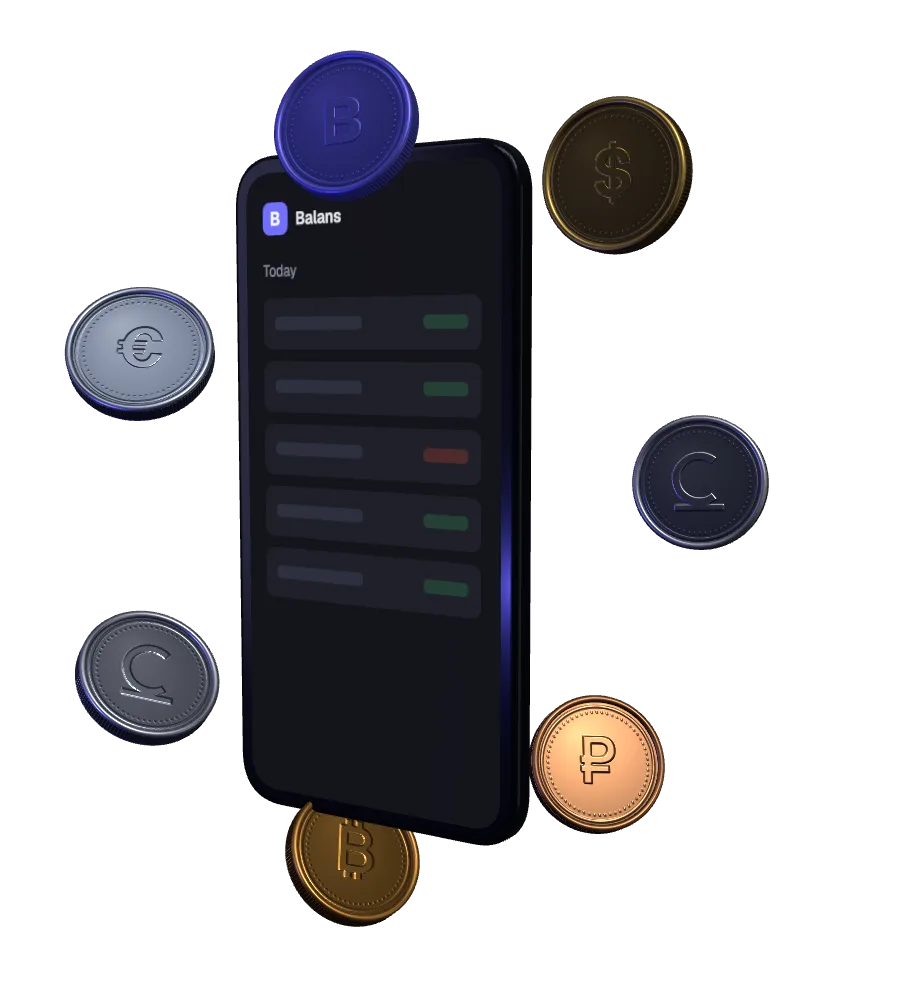
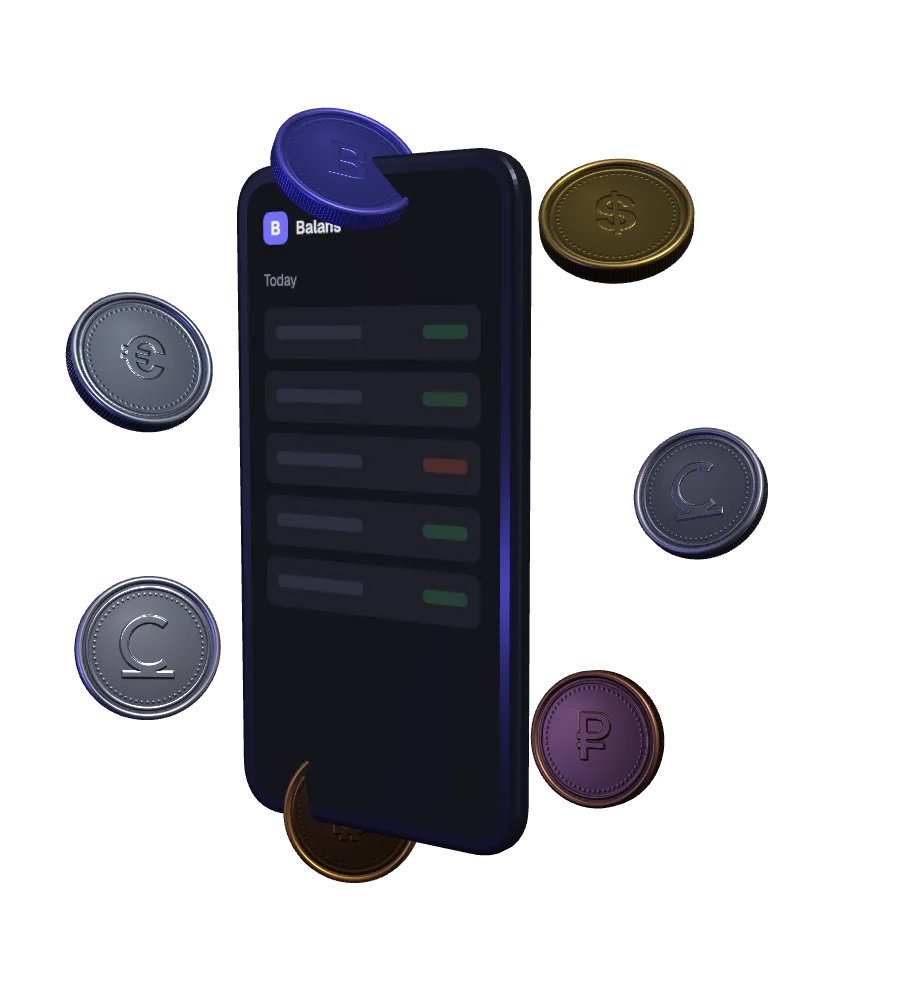
RUN 2B этапы 3–4: скорость и фон гостевых

diff --git a/src/app/_landing/hero.tsx b/src/app/_landing/hero.tsx
@@ -9,7 +9,7 @@ import type { Locale } from "@/i18n/config"
 import { formatSom } from "@/lib/format"
 import { cn } from "@/lib/utils"
 import { DemoButton } from "../demo/demo-button"
-import { stepOf, type ScreenLabels } from "./hero-scene"
+import { stepOf, type ScreenLabels } from "./hero-shared"
 import { PRIMARY_PILL } from "./styles"
 
 const HeroScene = dynamic(() => import("./hero-scene"), { ssr: false })
@@ -80,19 +80,21 @@ export function Hero({ screen, children }: { screen: Omit<ScreenLabels, "amount"
     const onVisibility = () => setActive(!document.hidden && element.getBoundingClientRect().bottom > 0)
     document.addEventListener("visibilitychange", onVisibility)
 
-    let idle = 0
+    // The scene (three.js, ~240 KB) loads on the visitor's first scroll, touch, key or mouse move after `load`:
+    // the hero is a scroll story, so it is ready by the time step 1 comes, and the first screen pays nothing for it.
+    const WAKE = ["scroll", "pointermove", "pointerdown", "keydown", "wheel", "touchstart"] as const
+    const wake = () => {
+      WAKE.forEach((type) => removeEventListener(type, wake))
+      setMode("3d")
+    }
+    const listen = () => WAKE.forEach((type) => addEventListener(type, wake, { passive: true, once: true }))
     const choose = requestAnimationFrame(() => {
       if (fixed !== null) {
         setFrozen(Number(fixed))
         setMode("3d")
       } else if (shouldSkip3D()) setMode("pictures")
-      else {
-      const start = () => {
-        idle = "requestIdleCallback" in window ? requestIdleCallback(() => setMode("3d"), { timeout: 2500 }) : Number(globalThis.setTimeout(() => setMode("3d"), 1200))
-      }
-      if (document.readyState === "complete") start()
-      else addEventListener("load", start, { once: true })
-      }
+      else if (document.readyState === "complete") listen()
+      else addEventListener("load", listen, { once: true })
     })
 
     return () => {
@@ -101,10 +103,10 @@ export function Hero({ screen, children }: { screen: Omit<ScreenLabels, "amount"
       cancelAnimationFrame(choose)
       removeEventListener("scroll", onScroll)
       removeEventListener("resize", onResize)
+      removeEventListener("load", listen)
+      WAKE.forEach((type) => removeEventListener(type, wake))
       seen.disconnect()
       document.removeEventListener("visibilitychange", onVisibility)
-      if ("cancelIdleCallback" in window) cancelIdleCallback(idle)
-      clearTimeout(idle)
     }
   }, [])
 
@@ -121,14 +123,17 @@ export function Hero({ screen, children }: { screen: Omit<ScreenLabels, "amount"
         {/* Scene: right half on a computer, top 52% on a phone. Hidden from screen readers. */}
         <div aria-hidden data-hero-scene className="relative row-start-1 overflow-hidden lg:col-start-2">
           <div aria-hidden className="absolute top-1/2 left-1/2 size-[min(36rem,90%)] -translate-1/2 bg-glow" />
-          {[0, 1, 2].map((i) => (
+          {/* Steps 1 and 2 only in the picture mode: otherwise they would share the network with the LCP picture. */}
+          {(mode === "pictures" ? [0, 1, 2] : [0]).map((i) => (
             <Image
               key={i}
               src={`/images/hero/${locale}-step-${i}.webp`}
               alt=""
               width={900}
               height={1000}
-              priority={i === 0}
+              // The LCP picture: high priority from the HTML itself (Next 16 deprecated `priority`).
+              loading={i === 0 ? "eager" : "lazy"}
+              fetchPriority={i === 0 ? "high" : "auto"}
               sizes="(min-width: 1024px) 50vw, 100vw"
               className={cn(
                 "absolute inset-0 size-full object-contain transition-opacity duration-500",

diff --git a/src/app/_landing/hero-scene.tsx b/src/app/_landing/hero-scene.tsx
@@ -4,19 +4,7 @@ import { useEffect, useMemo, useRef, type RefObject } from "react"
 import { Canvas, useFrame, useThree } from "@react-three/fiber"
 import * as THREE from "three"
 
-/** Texts and numbers painted on the screen card; prepared on the server in the visitor's language. */
-export type ScreenLabels = {
-  brand: string
-  today: string
-  newEntry: string
-  income: string
-  expense: string
-  chips: [string, string, string]
-  save: string
-  profitTitle: string
-  profitChange: string
-  amount: (value: number) => string
-}
+import { stepOf, type ScreenLabels } from "./hero-shared"
 
 const AMOUNT = 5_400
 const PROFIT = 142_800
@@ -33,7 +21,6 @@ const HERO_COINS: CoinKind[] = ["som", "usd", "b", "eur", "som", "btc", "rub"]
 
 const clamp = (v: number, a: number, b: number) => Math.max(a, Math.min(b, v))
 const lerp = (a: number, b: number, t: number) => a + (b - a) * t
-export const stepOf = (p: number) => (p < 0.3 ? 0 : p < 0.66 ? 1 : 2)
 
 /* ---------- shapes ---------- */
 
@@ -341,6 +328,7 @@ function Rig({
   font,
   active,
   capture,
+  minFps,
   onReady,
   onSlow,
 }: {
@@ -350,6 +338,8 @@ function Rig({
   active: boolean
   /** Capture mode: no quality steps, the slow software renderer must not swap the scene for pictures. */
   capture: boolean
+  /** Below this, after DPR 1, the scene gives way to the pictures. */
+  minFps: number
   onReady: () => void
   onSlow: () => void
 }) {
@@ -369,7 +359,7 @@ function Rig({
       bevelEnabled: true,
       bevelThickness: 0.06,
       bevelSize: 0.06,
-      bevelSegments: 8,
+      bevelSegments: 3,
       curveSegments: 16,
     })
     g.translate(0, 0, -0.05)
@@ -463,7 +453,7 @@ function Rig({
       const fps = f.count / f.time
       f.count = 0
       f.time = 0
-      if (fps < 24 && f.degraded) onSlow()
+      if (fps < minFps && f.degraded) onSlow()
       else if (fps < 40 && !f.degraded) {
         f.degraded = true
         setDpr(1)
@@ -478,13 +468,14 @@ function Rig({
       <pointLight position={[-6, -2, 4]} color={0x6e6cff} intensity={40} distance={30} />
       <group ref={card}>
         <mesh geometry={body}>
-          <meshPhysicalMaterial color={0x1c1e28} metalness={0.85} roughness={0.22} clearcoat={1} clearcoatRoughness={0.08} envMapIntensity={2.2} />
+          {/* Standard, not physical with clearcoat: its shader compile was the longest task on a phone (perf-auditor). */}
+          <meshStandardMaterial color={0x343848} metalness={0.6} roughness={0.28} envMapIntensity={2.6} />
         </mesh>
         <mesh geometry={face} position-z={0.112}>
           <meshBasicMaterial map={screen.texture} toneMapped={false} />
         </mesh>
         <mesh geometry={face} position-z={0.116}>
-          <meshPhysicalMaterial color={0xffffff} metalness={0} roughness={0.05} transparent opacity={0.06} envMapIntensity={2} />
+          <meshStandardMaterial color={0xffffff} metalness={0} roughness={0.05} transparent opacity={0.06} envMapIntensity={2} />
         </mesh>
       </group>
       <group ref={coinGroup}>
@@ -546,7 +537,7 @@ export default function HeroScene({
         gl.domElement.addEventListener("webglcontextlost", onFail, { once: true })
       }}
     >
-      <Rig progress={progress} labels={labels} font={font} active={active} capture={capture} onReady={onReady} onSlow={onFail} />
+      <Rig progress={progress} labels={labels} font={font} active={active} capture={capture} minFps={compact ? 30 : 24} onReady={onReady} onSlow={onFail} />
     </Canvas>
   )
 }

diff --git a/src/components/guest-backdrop.tsx b/src/components/guest-backdrop.tsx
@@ -1,0 +1,61 @@
+import { cn } from "@/lib/utils"
+
+type Item = { kind: "som" | "b" | "income" | "expense"; size: number; left: string; top: string; time: number; delay: number; phone?: boolean }
+
+/**
+ * Slow floating coins with the som sign, a «B» tile and two bars behind the card of the guest pages
+ * (sign-in, new password, invite, onboarding, 404, errors): motifs of the landing hero, drawn in SVG + CSS.
+ * Pure server markup, no JS. Hidden from screen readers, never takes clicks, still with reduced motion.
+ * Items marked `phone` stay at the edges on narrow screens; the rest show from 768px.
+ */
+const ITEMS: Item[] = [
+  { kind: "som", size: 88, left: "7%", top: "16%", time: 26, delay: 0, phone: true },
+  { kind: "b", size: 60, left: "86%", top: "12%", time: 30, delay: -8, phone: true },
+  { kind: "som", size: 56, left: "88%", top: "62%", time: 24, delay: -4 },
+  { kind: "income", size: 92, left: "13%", top: "66%", time: 32, delay: -12 },
+  { kind: "expense", size: 64, left: "76%", top: "82%", time: 28, delay: -16, phone: true },
+  { kind: "som", size: 44, left: "4%", top: "88%", time: 34, delay: -20, phone: true },
+]
+
+function Shape({ kind }: { kind: Item["kind"] }) {
+  if (kind === "som")
+    return (
+      <svg viewBox="0 0 100 100" className="size-full">
+        <circle cx="50" cy="50" r="47" className="fill-card stroke-border" strokeWidth="2" />
+        <circle cx="50" cy="50" r="39" fill="none" className="stroke-border" strokeWidth="1.5" strokeDasharray="2 4" />
+        {/* The som sign: «С» with a bar under it. */}
+        <path d="M61 34A17 17 0 1 0 61 60" fill="none" className="stroke-subtle-foreground" strokeWidth="5" />
+        <rect x="32" y="66" width="36" height="5" className="fill-subtle-foreground" />
+      </svg>
+    )
+  if (kind === "b")
+    return (
+      <span className="grid size-full place-items-center rounded-[22%] border border-primary/30 bg-primary-subtle text-heading font-semibold text-primary-text">
+        B
+      </span>
+    )
+  return <span className={cn("block h-full w-[34%] rounded-md opacity-40", kind === "income" ? "bg-income" : "bg-expense")} />
+}
+
+export function GuestBackdrop() {
+  return (
+    <div aria-hidden className="pointer-events-none fixed inset-0 -z-10 overflow-hidden">
+      {ITEMS.map((item, i) => (
+        <div
+          key={i}
+          className={cn("guest-float absolute opacity-60", !item.phone && "max-md:hidden")}
+          style={{
+            left: item.left,
+            top: item.top,
+            width: item.size,
+            height: item.size,
+            animationDuration: `${item.time}s`,
+            animationDelay: `${item.delay}s`,
+          }}
+        >
+          <Shape kind={item.kind} />
+        </div>
+      ))}
+    </div>
+  )
+}

diff --git a/src/app/login/auth-shell.tsx b/src/app/login/auth-shell.tsx
@@ -5,6 +5,7 @@ import { connection } from "next/server"
 import { LocaleToggle } from "@/components/locale-toggle"
 import { Logo } from "@/components/logo"
 import { SignOutIconButton } from "@/components/sign-out-button"
+import { GuestBackdrop } from "@/components/guest-backdrop"
 import { Card } from "@/components/ui/card"
 import { createClient } from "@/lib/supabase/server"
 
@@ -12,6 +13,7 @@ import { createClient } from "@/lib/supabase/server"
 export function AuthShell({ children }: { children: ReactNode }) {
   return (
     <>
+      <GuestBackdrop />
       <header className="border-b">
         <div className="page-container flex h-header items-center justify-between gap-4">
           {/* A signed-in person goes from «/» to the cabinet (proxy). */}

diff --git a/src/app/_landing/hero-shared.ts b/src/app/_landing/hero-shared.ts
@@ -1,0 +1,19 @@
+// Shared by the hero and its 3D scene. Kept free of three.js: hero.tsx imports it statically,
+// and anything it pulls in lands in the first screen's JS (perf-auditor, RUN 2B stage 3).
+
+/** Texts and numbers painted on the screen card; prepared on the server in the visitor's language. */
+export type ScreenLabels = {
+  brand: string
+  today: string
+  newEntry: string
+  income: string
+  expense: string
+  chips: [string, string, string]
+  save: string
+  profitTitle: string
+  profitChange: string
+  amount: (value: number) => string
+}
+
+/** Scroll progress 0..1 → step of the hero story. */
+export const stepOf = (p: number) => (p < 0.3 ? 0 : p < 0.66 ? 1 : 2)

diff --git a/src/app/globals.css b/src/app/globals.css
@@ -649,6 +649,19 @@
   }
 }
 
+/* Guest pages background (<GuestBackdrop>): a slow drift, one cycle ≥ 20s (DESIGN.md §13). Phones get smaller items. */
+.guest-float {
+  translate: -50% -50%;
+  animation: guest-float 26s ease-in-out infinite alternate;
+}
+@media (width < 48rem) {
+  .guest-float { scale: 0.6; }
+}
+@keyframes guest-float {
+  from { transform: translate3d(0, -14px, 0) rotate(-8deg); }
+  to { transform: translate3d(0, 14px, 0) rotate(8deg); }
+}
+
 /* Reduced motion: landing bento shows its final state instead of the starting one. */
 @media (prefers-reduced-motion: reduce) {
   .lp-share { transform: scaleX(var(--w)); }

diff --git a/src/app/error.tsx b/src/app/error.tsx
@@ -2,6 +2,7 @@
 
 import { useTranslations } from "next-intl"
 
+import { GuestBackdrop } from "@/components/guest-backdrop"
 import { Button } from "@/components/ui/button"
 import { StateMessage } from "@/components/state-message"
 
@@ -11,6 +12,7 @@ export default function Error({ retry }: { retry: () => void }) {
   const t = useTranslations()
   return (
     <main id="main" className="page-container flex flex-1 items-center justify-center">
+      <GuestBackdrop />
       <StateMessage
         variant="error"
         title={t("errors.pageTitle")}

diff --git a/src/app/layout.tsx b/src/app/layout.tsx
@@ -16,6 +16,8 @@ const geistSans = Geist({
 const geistMono = Geist_Mono({
   variable: "--font-geist-mono",
   subsets: ["latin"],
+  // Only /design uses it: no preload, so it does not compete with the first screen of every page.
+  preload: false,
 });
 
 export async function generateMetadata(): Promise<Metadata> {

diff --git a/docs/launch/PROGRESS.md b/docs/launch/PROGRESS.md
@@ -15,6 +15,8 @@
 | RUN 2 | 2. Лендинг | собран, не закоммичено. Скорость 77/75 принята как точка отсчёта (решение Даниэла 2026-11-16). **RUN 2 на паузе** по решению Даниэла; дальше Фаза 3 (фон гостевых), Фаза 4 (проверка ссылок), СТОП B | | `tsc`, `lint`, `build` чистые; `check-screens` `/` 24/24; ревью `screen-reviewer`: 4 блокера исправлены; сценарий тем и входа на `next start` проходит (гостевые тёмные до гидратации, кабинет светлый, выход, закрытая страница, демо); Lighthouse см. «Замеры» |
 | RUN 2, RUN 3 | — | **заменены на RUN 2B** 2026-11-16: лендинг переделывается по утверждённому прототипу (`docs/launch/prototype/`). Старые файлы в `docs/launch/_archive/` | `10ea90a` (архив кода RUN 2) | |
 | RUN 2B | 0. Подготовка | готово 2026-11-16 | | Прототип снят на 1440 и 390 (`_i/prototype/`), инструменты на месте; не хватает только npm-пакетов three / R3F / drei / gsap (ставим на этапе 2) |
+| RUN 2B | 4. Фон пустых страниц | готово 2026-11-17 | см. git log | `GuestBackdrop` в `AuthShell` (вход, новый пароль, приглашение, создание бизнеса, 404) и `error.tsx`; `check-screens /login /no-such-page` 48/48; на 360 только по краям, форму не задевает |
+| RUN 2B | 3. Скорость | готово 2026-11-17, **бюджет на телефоне выполнен не полностью** (3 круга из 3) | см. git log | Симуляция: 59/52 → 77/75, TBT 6–8 с → ~0,5 с, JS 500 → 155 КБ, LCP ~3,8 с. Реальное замедление (devtools): 86/88, LCP 2,77 с, TBT 0,21–0,26 с. 3D в эти цифры не входит (грузится по первому действию). Объяснение в `docs/LANDING.md` §5 |
 | RUN 2B | 2. Hero B с 3D | готово 2026-11-16 | см. git log | `tsc`, `lint`, `build` чистые; `check-screens` `/` 24/24; консоль без ошибок (одно предупреждение `THREE.Clock` из R3F); 3D проверено на 390, 768, 1024, 1440 на трёх шагах; запасной режим («уменьшить движение») меняет 3 картинки по шагам; кадры в `_i/run2b-stage2/` |
 | RUN 2B | 1. Блоки 2, 3, 5, 6, 7 и меню | готово 2026-11-16 | см. git log | `tsc`, `lint`, `build` чистые; `check-screens` `/` 24/24 без горизонтальной прокрутки; консоль без ошибок (360–1440); наведение и анимации проверены в Chrome DevTools, кадры в `_i/run2b-stage1/` рядом с `_i/prototype/` |
 | RUN 4 | — | не начат | | |
@@ -26,6 +28,14 @@
 | RUN 2 ф.2, первая версия | `/` ru / en | 72 / 73 | 0,96 / 0,93 с | 0 | 2218 / 1619 мс | `npx lighthouse` mobile, медиана 3, `next start` локально. JS 438 КБ: recharts и календарь грузились сразу |
 | RUN 2 ф.2, график и календарь отложены | `/` ru / en | 76 / 73 | 0,95 / 0,94 с | 0 | 1263 / 1845 мс | JS 246 КБ. С настоящим замедлением CPU (`--throttling-method=devtools`): 90 / 88, TBT 265 / 279 мс |
 | RUN 2 ф.2, анимация картинки на слое | `/` ru / en | 77 / 75 | 1,18 / 1,09 с | 0 | 1109 / 1274 мс | Бюджет 90 не выполнен (2 попытки): остаётся гидратация React, см. СТОП |
+| RUN 2B этап 3, до правок | `/` ru / en | 59 / 52 | 3,66 / 4,81 с | 0 | 6242 / 8037 мс | `perf-auditor`: чанк three.js (241 КБ по сети) попадал в первый экран из-за статического импорта `stepOf` из `hero-scene.tsx` |
+| RUN 2B этап 3, круг 1 | `/` ru / en | 77 / 76 (67/77/85 и 76/71/77) | 3,92 / 3,79 с | 0 | 422 / 482 мс | JS 155 КБ, three.js не грузится без действия пользователя. `next start` :3100, `npx lighthouse --form-factor=mobile`, медиана 3, JSON `.lighthouse/landing-run2b-fix2-*` |
+| RUN 2B этап 3, круг 2 (`fetchPriority`, без предзагрузки Geist Mono) | `/` ru / en | 77 / 75; devtools 86 / 88 | 3,75 / 3,85 с; devtools 2,77 / 2,76 с | 0 | 463 / 523 мс; devtools 263 / 211 мс | **Итог этапа.** JSON `.lighthouse/landing-run2b-fix4*` |
+| RUN 2B этап 3, круг 3 (`experimental.inlineCss`) | `/` ru / en | 68 / 69; devtools 86 / 85 | 4,30 / 4,23 с; devtools 2,46 / 2,35 с | 0 | 873 / 646 мс; devtools 427 / 483 мс | Откатили: в основной оценке (симуляция) хуже, LCP в devtools в бюджете. JSON `.lighthouse/landing-run2b-fix5*` |
+
+## Чек-поинт
+
+Чек-поинт 2026-11-16 отработан 2026-11-17: этапы 3 и 4 закрыты. Дальше — СТОП RUN 2B (полные ворота, `screen-reviewer`, push, preview, отчёт).
 
 ## Решения
 
@@ -97,9 +107,26 @@
 - **Знаки на монетах:** торец цилиндра разворачивает текстуру на четверть оборота, текстура лица повёрнута на +90°.
 - **Без тональной компрессии** (`flat`): R3F по умолчанию включает ACES, корпус экрана выходил чёрным, в прототипе (three r128) её не было.
 
+### RUN 2B, этап 3 (2026-11-16 – 2026-11-17)
+
+- **Главная ошибка:** `hero.tsx` статически импортировал `stepOf` из `hero-scene.tsx`, и весь three.js (241 КБ по сети, ~5 с работы на телефоне) попадал в первый экран, `next/dynamic` ничего не откладывал. `stepOf` и тип подписей вынесены в `hero-shared.ts` без three.
+- **Сцена грузится по первому действию** (прокрутка, касание, клавиша, мышь) после `load`, а не в простое браузера: hero — история на прокрутке, а кто только открыл страницу, 3D не качает.
+- **Корпус без лака:** `meshStandardMaterial` вместо `meshPhysicalMaterial` с clearcoat (самая долгая компиляция шейдера), цвет светлее (`0x343848`), чтобы кромка была видна как в прототипе. Фаска 8 → 3 сегмента.
+- **Картинка шага 0 — `loading="eager"` + `fetchPriority="high"`** (в Next 16 `priority` устарел). Картинки шагов 1–2 выводятся только в режиме картинок.
+- **Geist Mono без предзагрузки** (`preload: false` в корневом layout): он нужен только `/design`, а грузился на каждой странице.
+- **Порог перехода на картинки на телефоне 30 кадров** (на компьютере 24): при CPU 4x сцена давала 29 кадров с рывками до 0,4 с.
+- **`experimental.inlineCss` попробовали и откатили:** в devtools LCP стал 2,4 с, но основная оценка Lighthouse (симуляция) упала до 68/69. Глобальная экспериментальная опция без выигрыша по главной метрике не нужна.
+- **Сборка Next 16.4.3 останавливается сообщением о уязвимости** (`SecurityFatalError`, предлагает `next upgrade --agent=security`); повторный запуск проходит. Обновление — решение Даниэла.
+
+### RUN 2B, этап 4 (2026-11-17)
+
+- **Фон гостевых страниц `GuestBackdrop`** (`components/guest-backdrop.tsx`): серверная разметка, SVG + CSS, без JS. Монеты со знаком сома, плитка «B», столбики дохода и расхода, цвета из токенов, цикл 24–34 с. На телефоне 4 элемента из 6, меньше и по краям. Подключён в `AuthShell` и корневой `error.tsx`; `global-error` (аварийная страница со своим `<html>`) без фона.
+
 ## После запуска
 
 (идеи и необязательные доработки; сейчас не делаем)
+
+- Скорость лендинга до 90 в симуляции Lighthouse: остаток — основные скрипты Next/React и гидратация. Варианты: `experimental.inlineCss` (в devtools LCP 2,4 с, в симуляции хуже — перемерить на Vercel), передавать в `NextIntlClientProvider` только нужные разделы словаря.
 
 - Скорость лендинга до 90 (RUN 2 остановился на 77/75): разбить гидратацию блоков ниже первого экрана на `Suspense`; витрину формы записи отрисовать на сервере без клиентских компонентов; передавать в `NextIntlClientProvider` только нужные разделы словаря (корневой layout, проверить кабинет).
 - `AmountInput` в кабинете на английском ставит пробел между тысячами («5 400 KGS»), а везде в EN запятая («5,400 KGS»). На лендинге обойдено значением через `formatNumber`.

diff --git a/docs/LANDING.md b/docs/LANDING.md
@@ -66,3 +66,32 @@
 | Анимации | CSS, ≤ 200 мс | появление при прокрутке до 600 мс (только `opacity` и `transform`, один раз), GSAP + ScrollTrigger только здесь. Бесконечное движение — только фон гостевых, медленно (цикл ≥ 20 с). «Уменьшить движение» выключает всё |
 | Шрифт | Geist | плюс Geist Mono только для блока кода |
 | Цвета | индиго, зелёный, красный, янтарный | без изменений, новых оттенков нет |
+
+> Разделы 1–4 — концепция RUN 2. С RUN 2B лендинг сделан по утверждённому прототипу (`docs/launch/RUN_2B_lending_po_prototipu.md`, `docs/launch/prototype/`), раздел 3 заменён разделом 5.
+
+## 5. Как устроено 3D и почему оно быстрое (RUN 2B)
+
+**Что видно.** В первом блоке экран-карточка с интерфейсом Balans. Пока вы листаете, она поворачивается, монеты (сом, $, €, ₽, ₿, B) влетают в неё, на экране сначала форма записи с суммой, потом прибыль за месяц, рядом вырастают столбики.
+
+**Из чего сделано.** Только код, ни одной модели и ни одного HDR-файла:
+- корпус — скруглённый прямоугольник с фаской (`ExtrudeGeometry`), интерфейс на экране рисуется на обычном `<canvas>` и перерисовывается, только когда меняется шаг или число;
+- монеты — один цилиндр и два тора на все семь, материалы общие по виду монеты, знаки и рифление — текстуры из `<canvas>`;
+- свет — «студия» из трёх светящихся прямоугольников, один раз запечённая в карту отражений (`PMREMGenerator`), плюс два источника. Теней нет.
+- Библиотеки: `three` и `@react-three/fiber`. Без drei и GSAP: прогресс прокрутки — одна формула от положения блока.
+
+**Почему страница не тормозит из-за 3D.**
+1. **Сначала картинка.** Первый экран — заголовок и картинка сцены (WebP 30 КБ, снята из самой сцены скриптом `scripts/capture-hero.mjs`). Её браузер получает с высоким приоритетом.
+2. **3D отдельным файлом и только по делу.** Код сцены (~240 КБ) лежит в отдельном чанке и скачивается, только когда человек начал листать, касаться или двигать мышь. Кто просто открыл страницу, 3D не качает вовсе. Hero — история на прокрутке, поэтому к шагу 1 сцена уже готова и плавно сменяет картинку.
+3. **Не рисует лишнего.** Когда блок ушёл за экран или вкладка скрыта, кадры не рисуются. На телефоне плотность пикселей 1, на компьютере не больше 1,5.
+4. **Сама уступает слабому устройству.** Каждые 2 секунды сцена считает кадры. Мало — снижает плотность пикселей, всё ещё мало (меньше 30 кадров на телефоне, 24 на компьютере) — вместо 3D остаются картинки, которые меняются по шагам.
+5. **Картинки вместо 3D сразу**, если: «уменьшить движение», нет WebGL, режим экономии трафика, мало памяти или ядер, потеря контекста WebGL, или выключатель `NEXT_PUBLIC_HERO_3D=off`.
+
+**Цифры** (`npx lighthouse`, телефон, медиана 3 прогона, локальный `next start`):
+
+| Когда | Performance ru / en | LCP | TBT | JS |
+|---|---|---|---|---|
+| 3D только добавлено (ошибка: код сцены попадал в первый экран) | 59 / 52 | 3,7 / 4,8 с | 6,2 / 8,0 с | 500 КБ |
+| После исправлений | 77 / 75 | 3,8 с | ~0,5 с | 155 КБ |
+| То же с настоящим замедлением (`--throttling-method=devtools`) | 86 / 88 | 2,77 с | 0,21–0,26 с | 155 КБ |
+
+Бюджет (90, LCP 2,5 с, TBT 0,2 с) на телефоне полностью не выполнен. Остаток не от 3D, а от самой страницы: в симуляции Lighthouse картинка делит канал с основными скриптами Next и React, а гидратация занимает главный поток. 3D в эти цифры не входит: без действия посетителя оно не грузится.

diff --git a/docs/DESIGN.md b/docs/DESIGN.md
@@ -295,7 +295,7 @@
 | Шрифт кода | Geist Mono (`font-mono`), только в блоке кода |
 | Цвета | Новых оттенков нет: индиго, доход, расход |
 | Анимации | Только `opacity` и `transform`, без библиотек: `reveal` (появление при прокрутке, до 24 px), `tilt-in` (окно кабинета выпрямляется из наклона 22° и масштаба 0,9, как в прототипе RUN 2B), `rise-in` (главная картинка появляется один раз, 700 мс, анимируется вся обёртка, а не столбики внутри SVG: трансформации внутри SVG идут в главном потоке и пересчитывали стили страницы), `edge-on-scroll` (граница шапки после 64 px прокрутки). Привязка к прокрутке через CSS `animation-timeline`; где её нет (Firefox), блоки просто видны. «Уменьшить движение» выключает всё |
-| Бесконечное движение | Фон гостевых страниц, медленно (цикл ≥ 20 с), CSS + SVG. И две точки-подсказки в окне кабинета (`lp-hot`, пульс 2,2 с): они зовут нажать |
+| Бесконечное движение | Фон гостевых страниц `<GuestBackdrop>` (`components/guest-backdrop.tsx`: монеты со знаком сома, плитка «B», столбики дохода и расхода по краям, цвета из токенов), медленно (цикл 24–34 с), CSS + SVG, без JS. На телефоне меньше и только по краям. И две точки-подсказки в окне кабинета (`lp-hot`, пульс 2,2 с): они зовут нажать |
 | Кнопки (RUN 2B) | На лендинге кнопки-«пилюли» `rounded-full`. Главная кнопка светлая: `bg-foreground text-background`, при наведении `primary-foreground`. В кабинете кнопки прежние, 8 px |
 | Живая стрелка | `<LiveArrow>` (`app/_landing/arrow.tsx`, стили `.live-arrow`): при наведении на кнопку появляется линия, наконечник сдвигается на 3 px |
 | Подсветка за курсором | `spotlight`: мягкий круг индиго 14% внутри карточки и светящаяся рамка 1 px через маску, следуют за курсором (`<Spotlight>` пишет `--mx`/`--my`). Только на устройствах с мышью |
